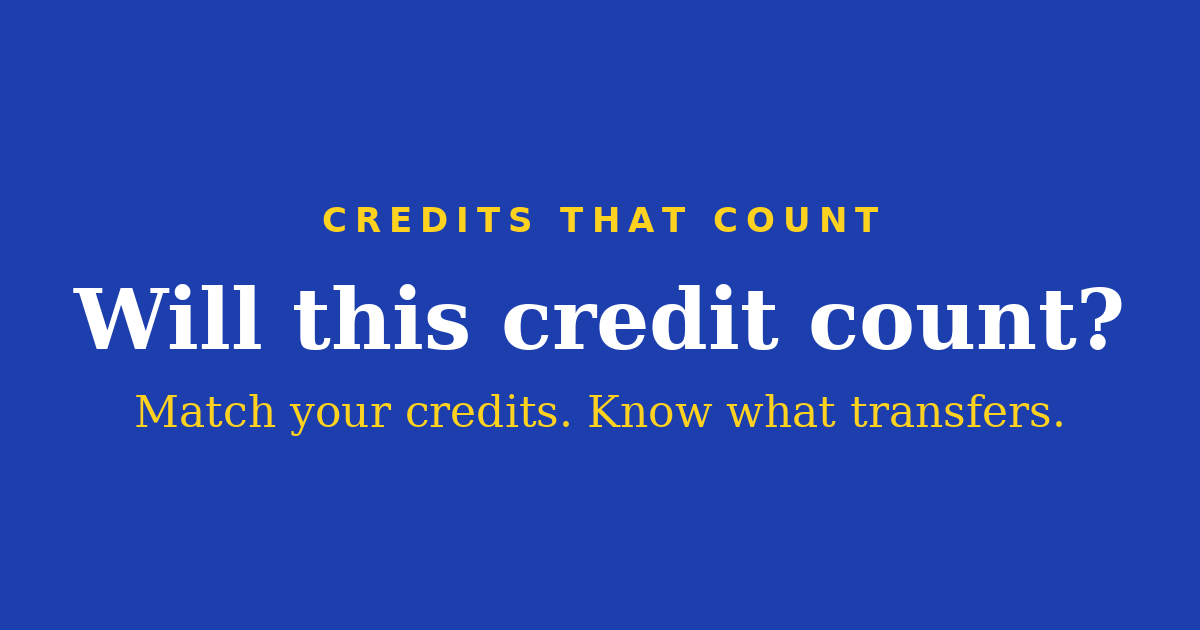
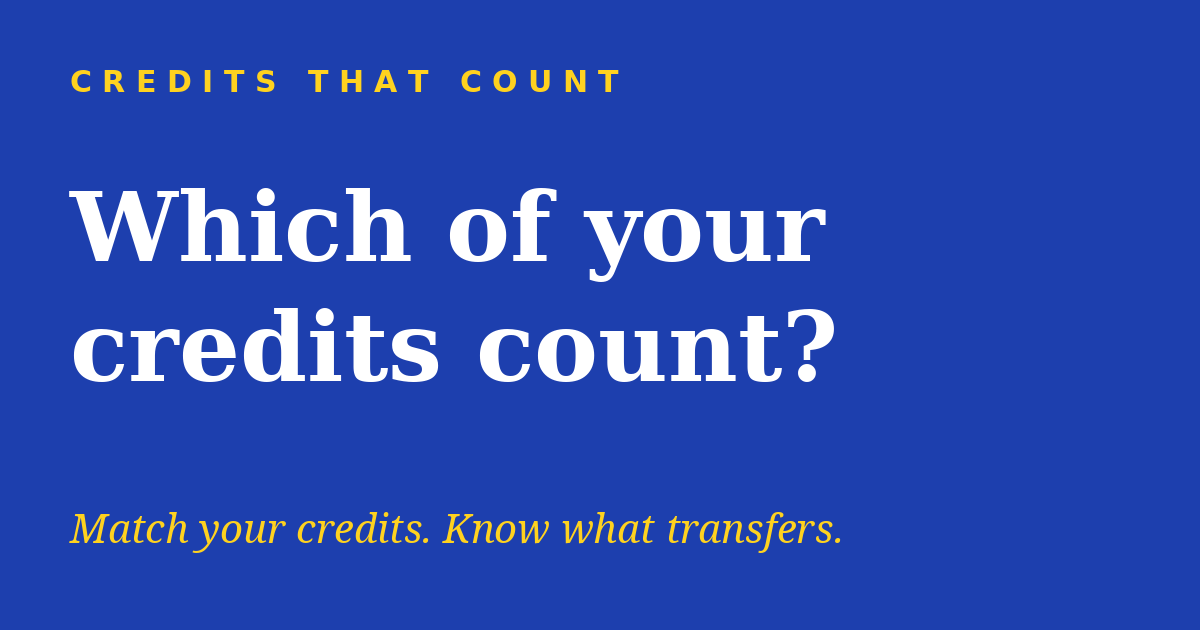
Homepage audience funnels and family wording sweep (Nov 19)

diff --git a/public/sw.js b/public/sw.js
@@ -1,7 +1,7 @@
 // Credits That Count service worker: network first, cache fallback.
 // Keeps the app installable and resilient without ever serving stale checks.
-const CACHE = 'ctc-v2';
-const SHELL = ['/', '/how-it-works/', '/counselors/', '/terms/', '/about/', '/contact/', '/favicon.svg', '/manifest.webmanifest'];
+const CACHE = 'ctc-v3';
+const SHELL = ['/', '/students/', '/parents/', '/how-it-works/', '/counselors/', '/terms/', '/about/', '/contact/', '/favicon.svg', '/manifest.webmanifest'];
 
 self.addEventListener('install', (event) => {
   event.waitUntil(
